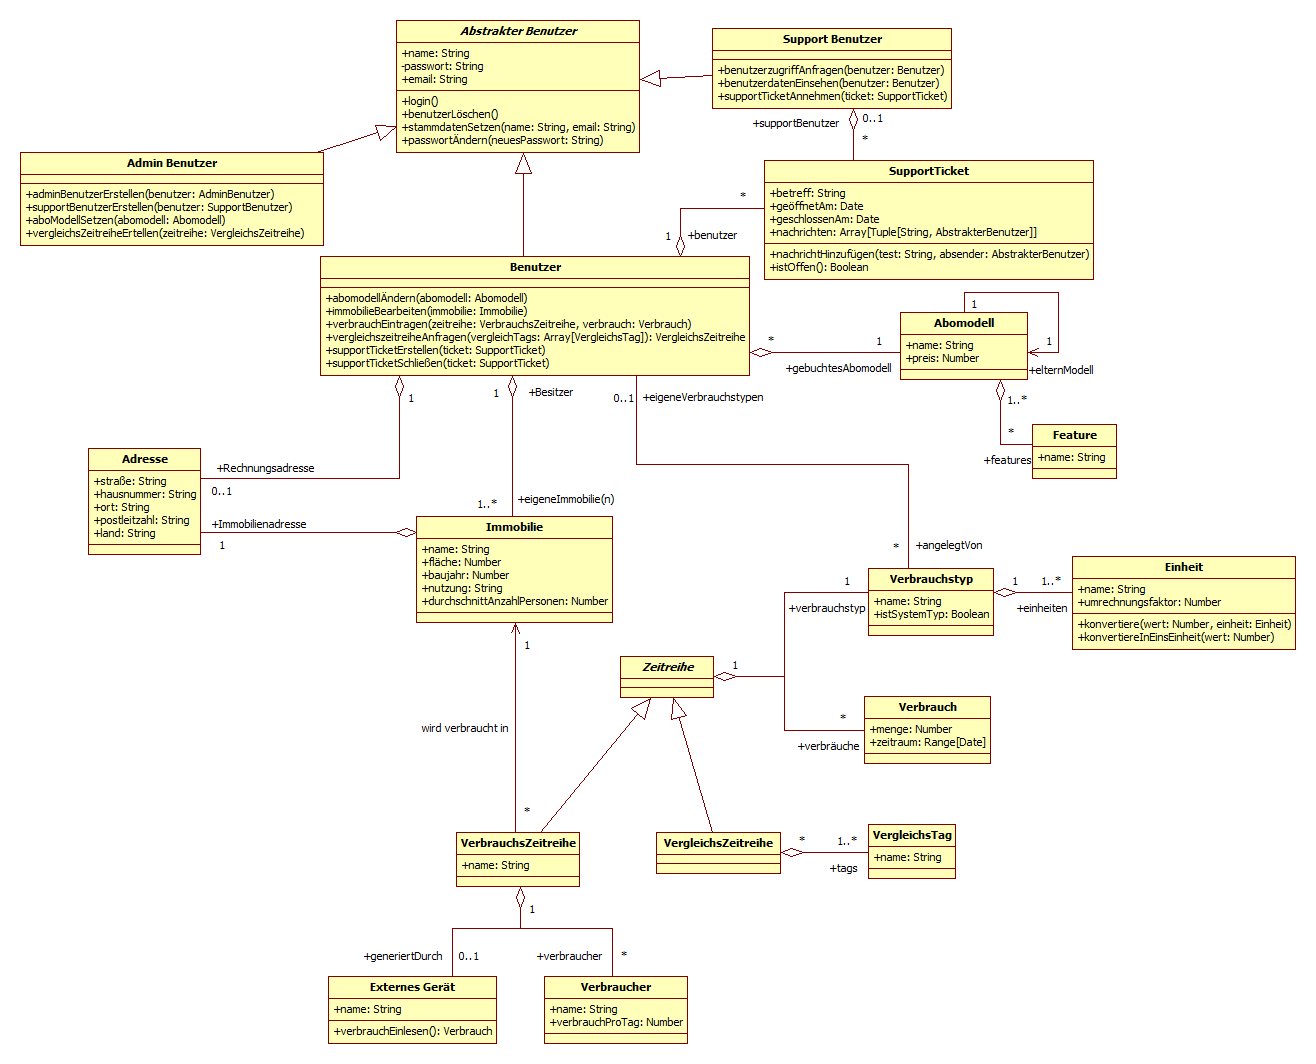
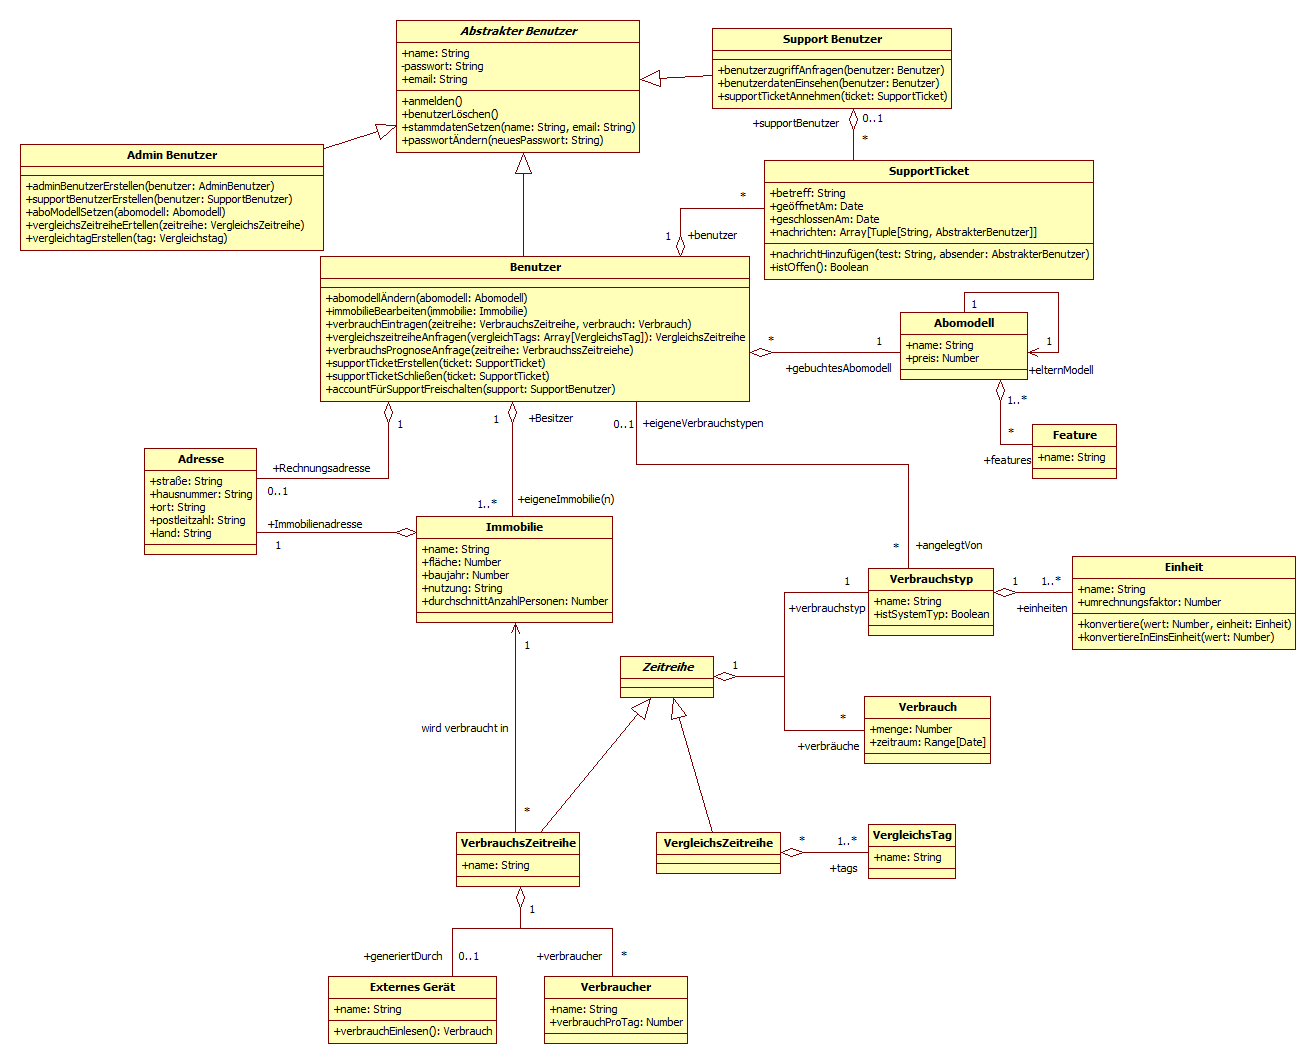
close #39

diff --git a/specification/system_features/main.tex b/specification/system_features/main.tex
@@ -68,6 +68,22 @@ Der Nutzer geht auf den Menüpunkt Statistiken und wählt den gewünschten Verbr
 \paragraph{Funktionale Anforderungen}
 Noch zu diskutieren.
 
+\subsubsection{Prognosen einsehen}
+\paragraph{Beschreibung und Priorität}
+Die Funktion Prognosen einsehen dient dem Nutzer dazu Prognosen für zukünftige Verbräuche einzusehen. Die Prognosen werden auf Basis von vorherigen Verbräuchen und eingetragenen Verbrauchern gebildet. Wenn der Verbauch eines Nutzers im letzten Jahr ungefähr gleich geblieben ist, wird dies auch für das nächste Jahr prognostiziert.
+\paragraph{Sequenzen von Benutzeraktionen und Systemantworten}
+Wenn der Nutzer sich Prognosen für seine Verbräuche anzeigen lassen möchte, muss er zunächst einen vorhandenen Verbrauchstyp auswählen. Zusätzlich dazu muss der Nutzer einen bestimmten Zeitraum wählen, für die er die Prognose möchte. Falls dieser Zeitraum zu weit in der Zukunft liegt, oder der Verbrauchstyp kaum oder gar keine Verbräuche besitzt, können keine Prognosen ermittelt werden. Wenn Prognosen ermittelt werden können, werden diese dem Nutzer angezeigt. Ob diese Prognosen in Form eines Gesamtverbrauchs (z.B. 1600 kWh für nächstes Jahr), oder in Form einer Verbrauchszeitreihe (Diagramm) angezeigt werden ist noch offen.
+\paragraph{Funktionale Anforderungen}
+Noch zu diskutieren
+
+\subsubsection{Kosten einsehen}
+\paragraph{Beschreibung und Priorität}
+Die Funktion Kosten einsehen ermöglicht dem Nutzer die Kosten zu seinen Verbräuchen einzusehen. Bevor dies geschehen kann, muss der Benutzer einen Preis pro angegbener Einheit angeben. Zudem kann er sich bei eigenen Verbrauchstypen auch eigene Kosten eintragen. Beispiel: Der Nutzer hat den Verbrauchstyp Anzahl an Kaffee pro Tag. Dazu kann der Nutzer nun einen Preis eintragen: Ein Kaffee kostet einen Euro.
+\paragraph{Sequenzen von Benutzeraktionen und Systemantworten}
+Der Nutzer muss einen Verbrauchstyp auswählen und dann zu diesem Typ einen Zeitraum und Kosten pro Einheit wählen. Danach werden ihm die Kosten für den Verbrauch über den Zeitraum angezeigt. Wenn der Nutzer seinen Verbrauch vergleicht, ist neben dem Vergleich des Verbrauchs auch ein Vergleich der Kosten sichtbar.
+\paragraph{Funktionale Anforderungen}
+Noch zu diskutieren
+
 \subsubsection{Immobilien bearbeiten}
 \paragraph{Beschreibung und Priorität}
 Der Benutzer kann Immobilien hinzufügen,
@@ -167,21 +183,6 @@ Der Nutzer wählt den Menüpunkt \gquote{Account Verwalten} aus. Dort sind alle 
 	\item \textbf{AVW5} Email
 	\item \textbf{AVW6} Passwort. Hier sollte das aktuelle Passwort jedoch nicht einsehbar sein (da es nicht gespeichert werden soll).
 \end{itemize}
-\subsubsection{Prognosen einsehen}
-\paragraph{Beschreibung und Priorität}
-Die Funktion Prognosen einsehen dient dem Nutzer dazu Prognosen für zukünftige Verbräuche einzusehen. Die Prognosen werden auf Basis von vorherigen Verbräuchen und eingetragenen Verbrauchern gebildet. Wenn der Verbauch eines Nutzers im letzten Jahr ungefähr gleich geblieben ist, wird dies auch für das nächste Jahr prognostiziert.
-\paragraph{Sequenzen von Benutzeraktionen und Systemantworten}
-Wenn der Nutzer sich Prognosen für seine Verbräuche anzeigen lassen möchte, muss er zunächst einen vorhandenen Verbrauchstyp auswählen. Zusätzlich dazu muss der Nutzer einen bestimmten Zeitraum wählen, für die er die Prognose möchte. Falls dieser Zeitraum zu weit in der Zukunft liegt, oder der Verbrauchstyp kaum oder gar keine Verbräuche besitzt, können keine Prognosen ermittelt werden. Wenn Prognosen ermittelt werden können, werden diese dem Nutzer angezeigt. Ob diese Prognosen in Form eines Gesamtverbrauchs (z.B. 1600 kWh für nächstes Jahr), oder in Form einer Verbrauchszeitreihe (Diagramm) angezeigt werden ist noch offen.
-\paragraph{Funktionale Anforderungen}
-Noch zu diskutieren
-
-\subsubsection{Kosten einsehen}
-\paragraph{Beschreibung und Priorität}
-Die Funktion Kosten einsehen ermöglicht dem Nutzer die Kosten zu seinen Verbräuchen einzusehen. Bevor dies geschehen kann, muss der Benutzer einen Preis pro angegbener Einheit angeben. Zudem kann er sich bei eigenen Verbrauchstypen auch eigene Kosten eintragen. Beispiel: Der Nutzer hat den Verbrauchstyp Anzahl an Kaffee pro Tag. Dazu kann der Nutzer nun einen Preis eintragen: Ein Kaffee kostet einen Euro.
-\paragraph{Sequenzen von Benutzeraktionen und Systemantworten}
-Der Nutzer muss einen Verbrauchstyp auswählen und dann zu diesem Typ einen Zeitraum und Kosten pro Einheit wählen. Danach werden ihm die Kosten für den Verbrauch über den Zeitraum angezeigt. Wenn der Nutzer seinen Verbrauch vergleicht, ist neben dem Vergleich des Verbrauchs auch ein Vergleich der Kosten sichtbar.
-\paragraph{Funktionale Anforderungen}
-Noch zu diskutieren
 
 \subsubsection{Verbrauch vergleichen}
 \includegraphics[scale=0.5]{activity_vergleich.png}
@@ -246,11 +247,11 @@ Wenn der Admin sich für eine der Funktionen entschieden hat, kann er diese ausf
 \end{itemize}
 
 
-\subsubsection{Supportaccount erstellen}
+\subsubsection{Support- und Adminaccount erstellen}
 \paragraph{Beschreibung und Priorität}
-Der Admin soll in der Lage sein Supportaccounts zu erstellen. Der Account kann von dem Support Team verwendet werden um Zugang zu dem System zu erhalten. Über diesen Account kann der Support die Systemfunktionen des Supports nutzen.
+Der Admin soll in der Lage sein Support- und Adminaccounts zu erstellen. Der Supportccount kann von dem Support Team verwendet werden um Zugang zu dem System zu erhalten. Über diesen Account kann der Support die Systemfunktionen des Supports nutzen. Ein Adminacount hätte die selben Rechte wie der erstellende Adminbenutzer.
 \paragraph{Sequenzen von Adminaktionen und Systemantworten}
-Um einen Supportaccount zu erstellen soll eine Maske erstellt werden. In der Maske gibt es die Felder: Name, Passwort und Email. Wenn der Admin alle Felder ausgefüllt hat, kann er auf der Maske ein Bestätigungsknopf drücken und der Supportaccount wird dadurch angelegt. Zusätzlich soll es auf der Maske ein "Schließen" Knopf geben falls der Admin die Aktion abbrechen will.
+Um einen Support- oder Adminaccount zu erstellen soll eine Maske erstellt werden. In der Maske gibt es die Felder: Name, Passwort und Email sowie diw Wahl ob es sich um ein Support- oder Adminaccount handelt. Wenn der Admin alle Felder ausgefüllt hat, kann er auf der Maske ein Bestätigungsknopf drücken und der Account wird dadurch angelegt. Zusätzlich soll es auf der Maske ein "Schließen" Knopf geben falls der Admin die Aktion abbrechen will.
 \paragraph{Funktionale Anforderungen}
 Noch zu diskutieren.
 
